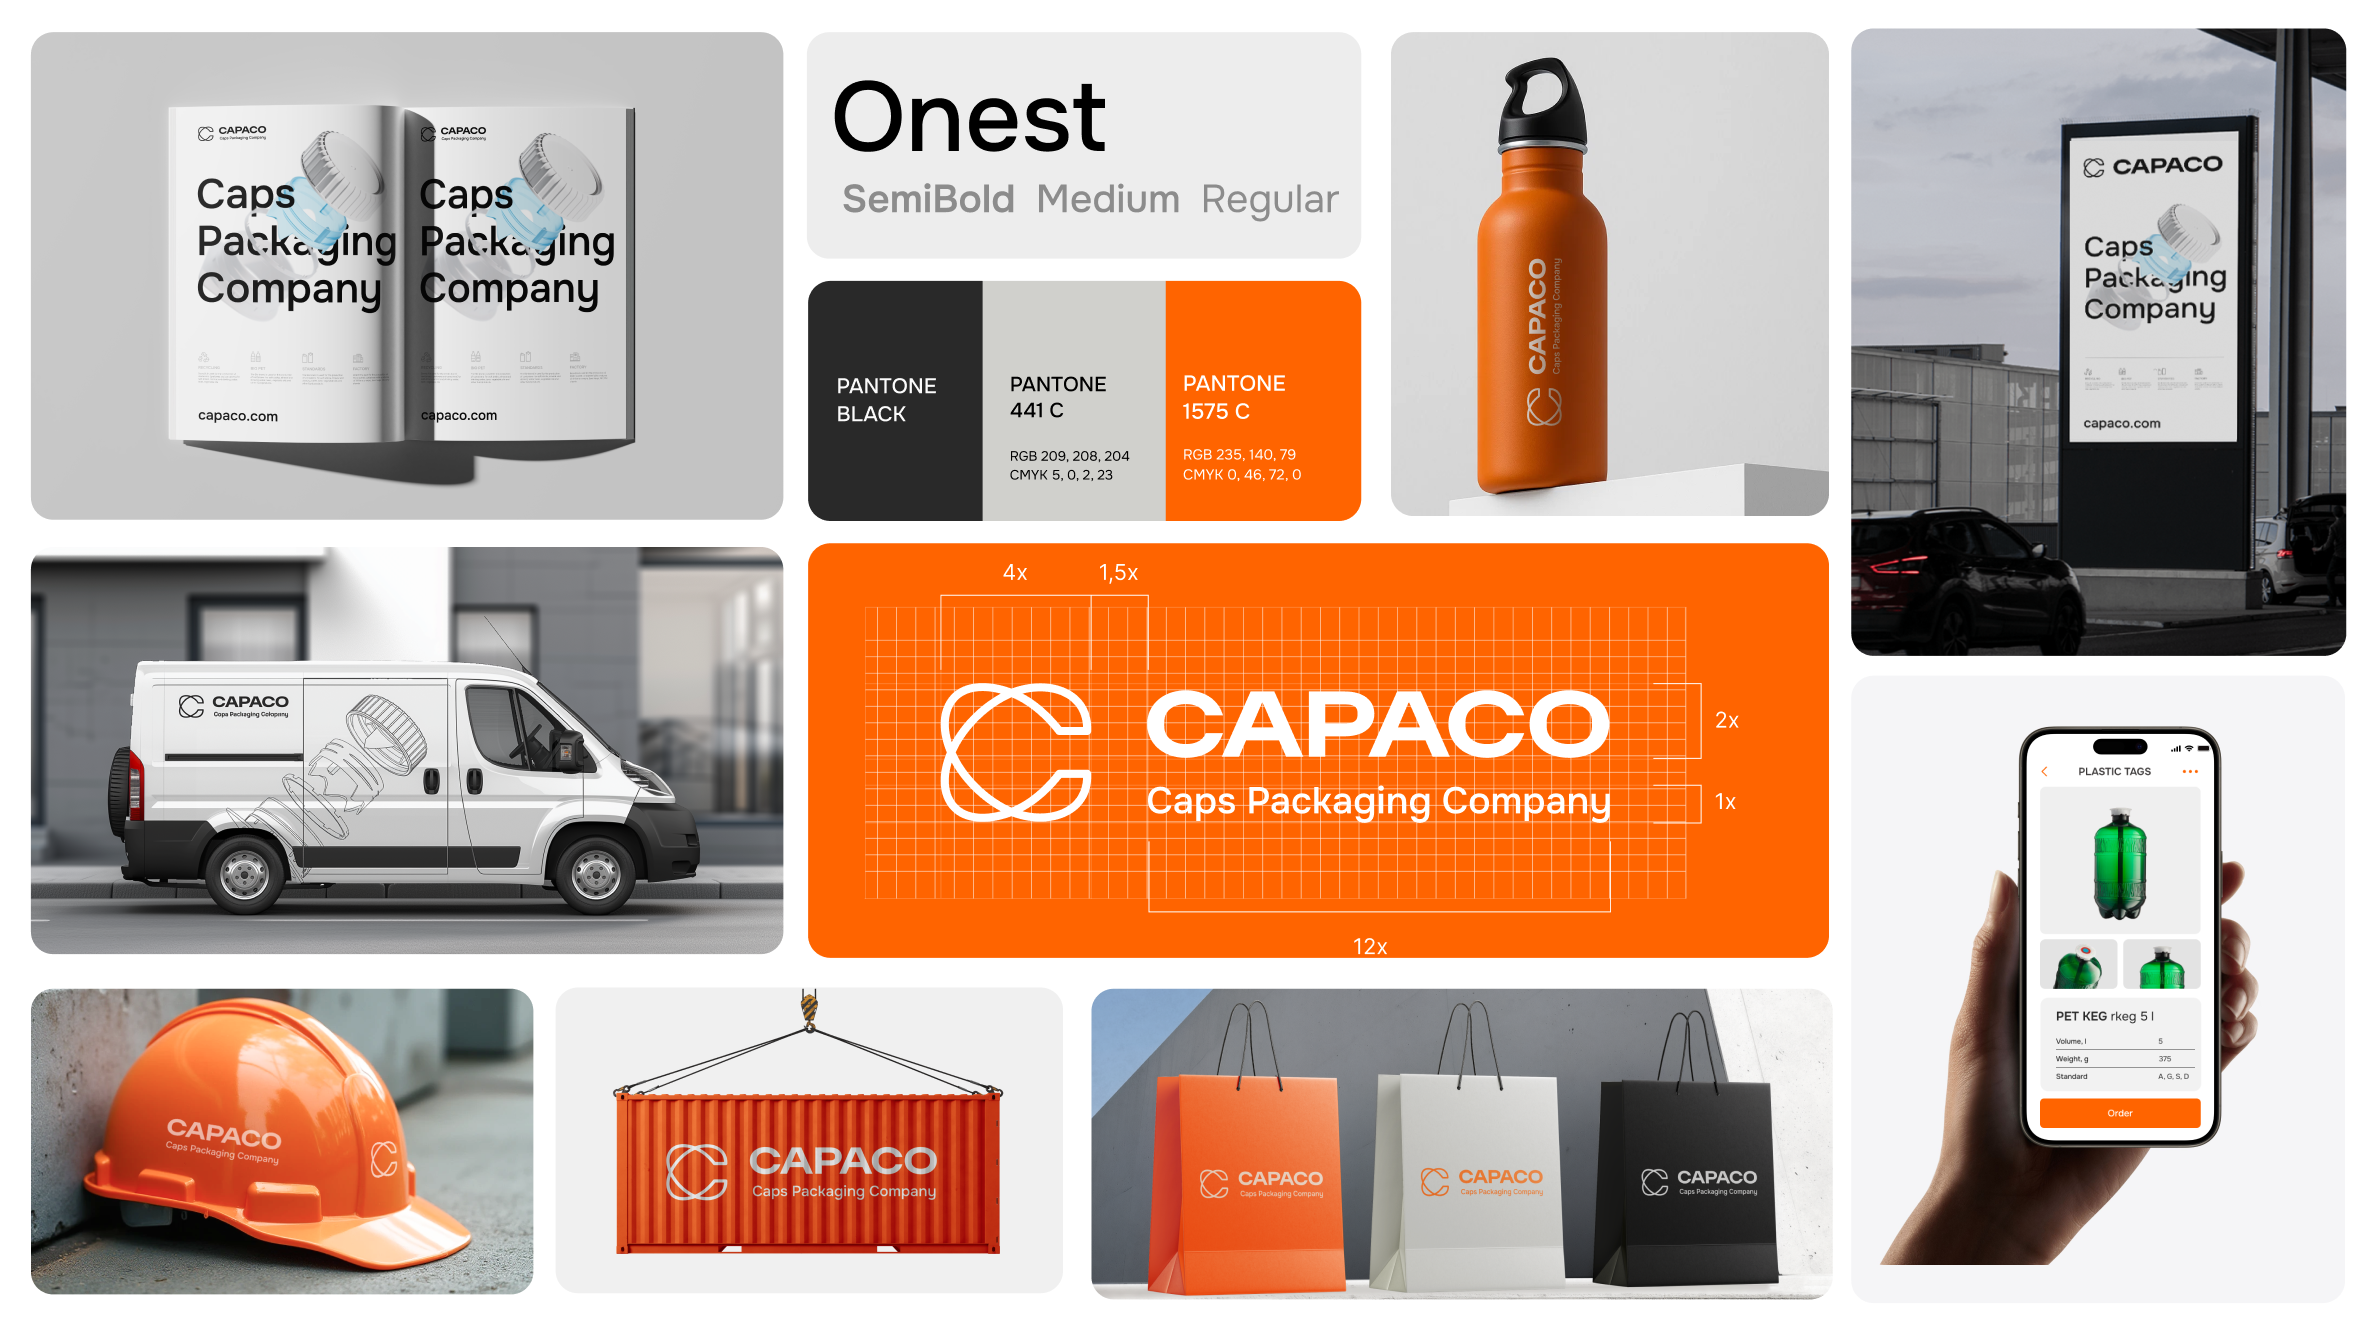
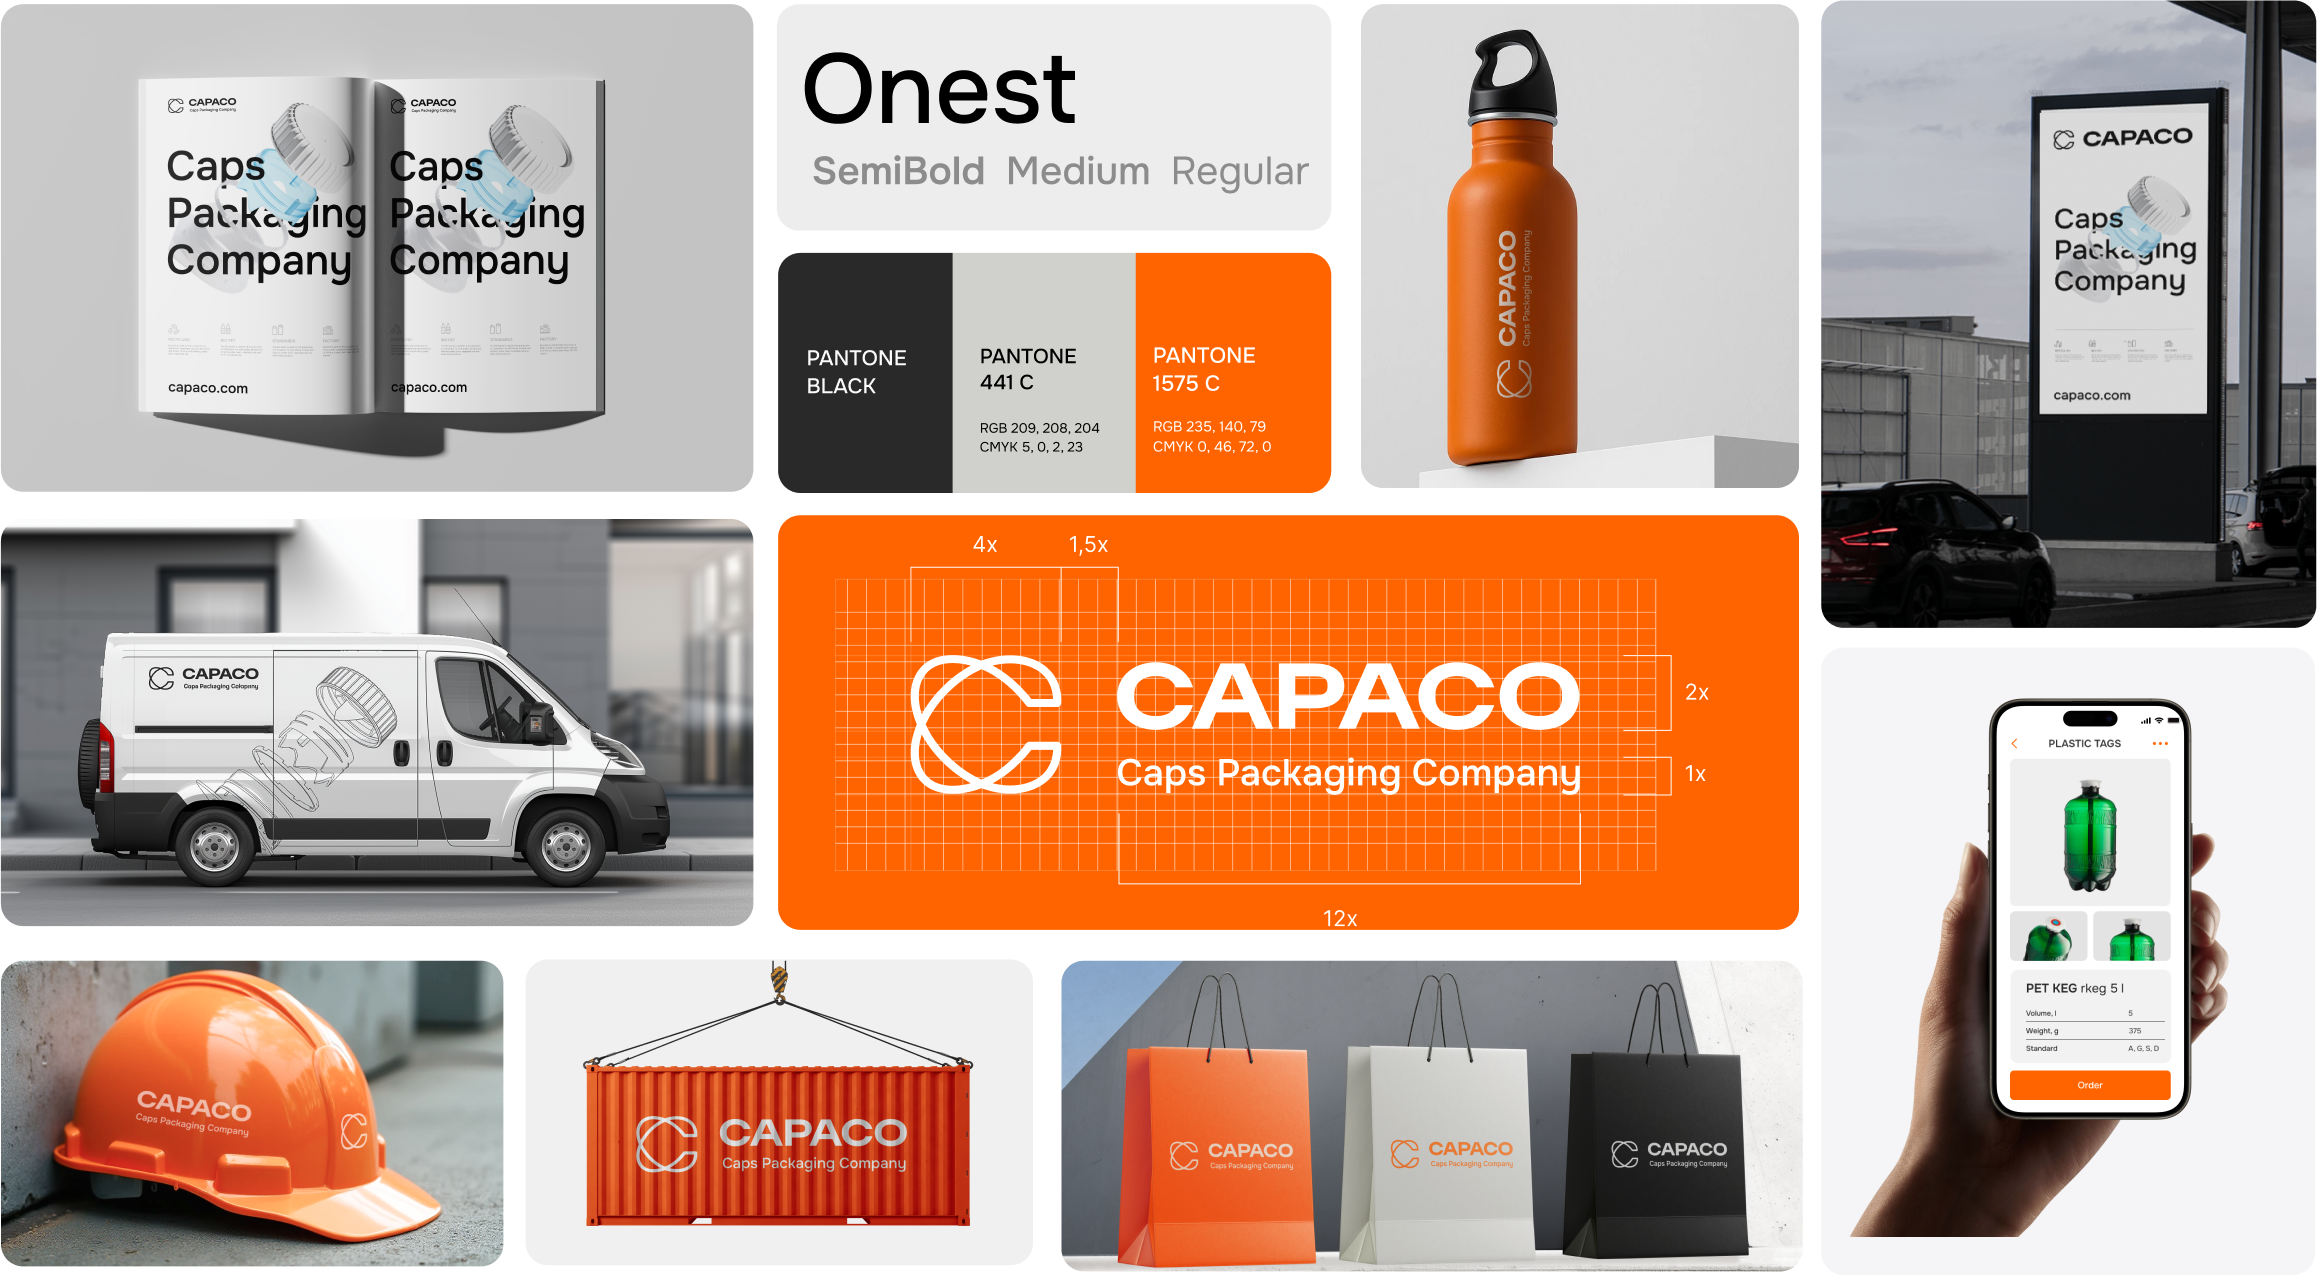
Fit Capaco brandbook image and single intro column to the mockup
Trim the transparent padding around brendbuk.png so the collage fills
the column edge to edge like the other images, and narrow the
single-column intro to 553px.

diff --git a/src/data/projects.ts b/src/data/projects.ts
@@ -88,7 +88,7 @@ export const PROJECTS: Project[] = [
       caseUrl: "https://dprofile.ru/case/149869/capaco",
       sections: [
         { image: "/images/projects/capaco/zagolovok.png", width: 1160, height: 653, alt: "Заголовок проекта" },
-        { image: "/images/projects/capaco/brendbuk.png", width: 1188, height: 668, alt: "Брендбук" },
+        { image: "/images/projects/capaco/brendbuk.png", width: 1159, height: 638, alt: "Брендбук" },
         { image: "/images/projects/capaco/buklet-i-identika.png", width: 1156, height: 657, alt: "Буклет и айдентика" },
         { image: "/images/projects/capaco/sayt.png", width: 1156, height: 650, alt: "Сайт и цифровые интерфейсы" },
         { image: "/images/projects/capaco/upakovka.png", width: 1152, height: 833, alt: "Упаковка" },

diff --git a/src/app/projects/[slug]/page.module.css b/src/app/projects/[slug]/page.module.css
@@ -29,7 +29,7 @@
 
 .introSingle {
   grid-template-columns: 1fr;
-  max-width: 560px;
+  max-width: 553px;
 }
 
 .introCol {
